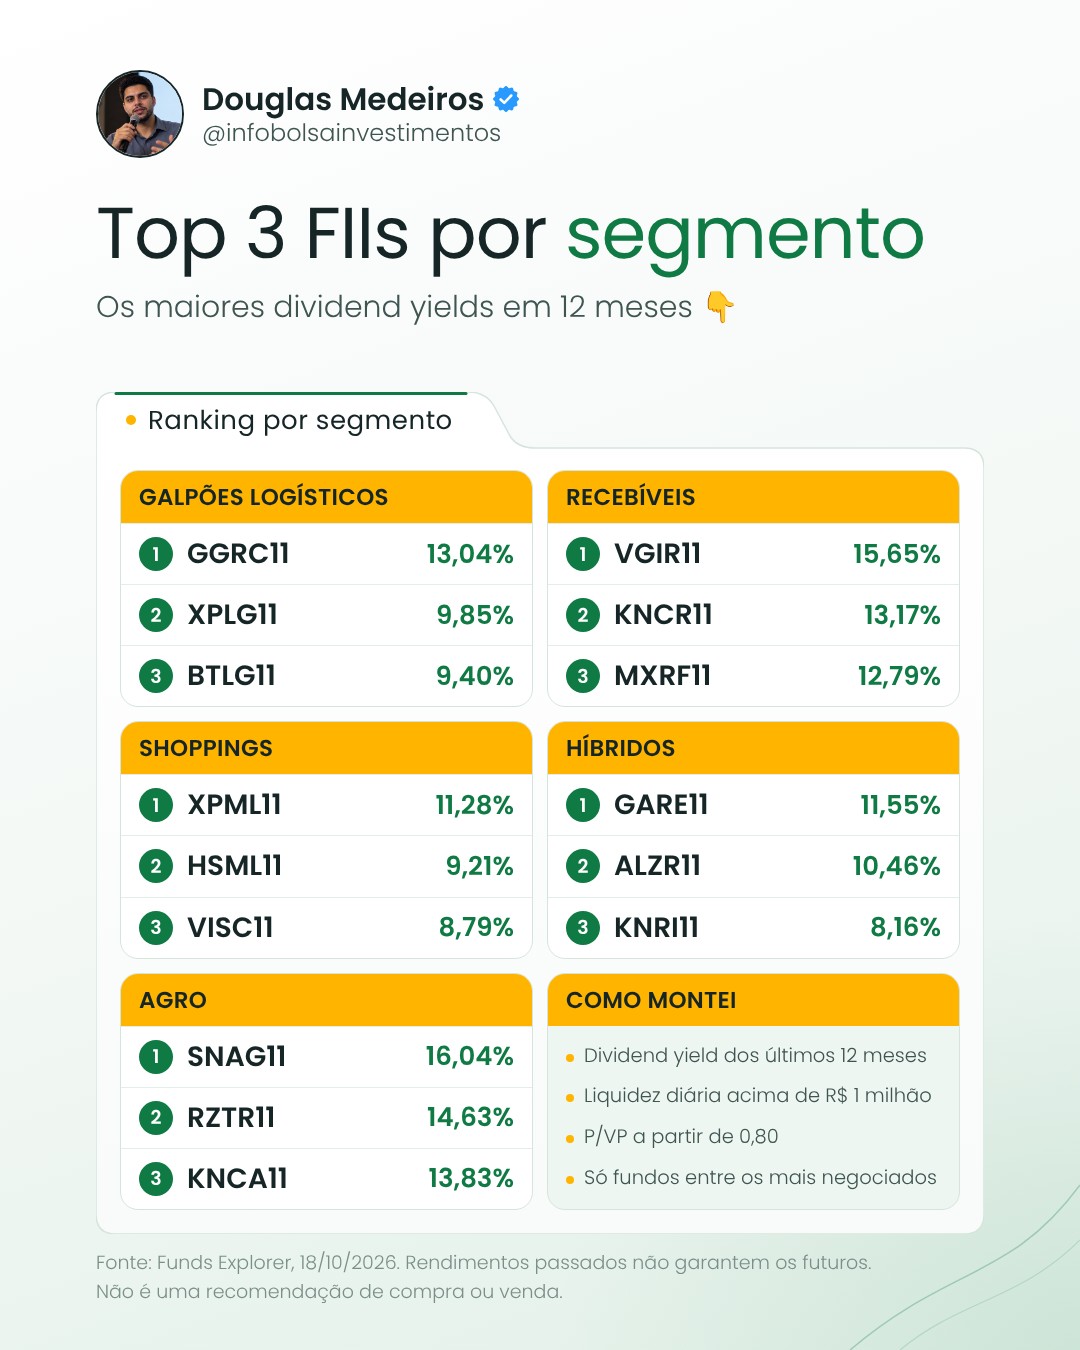
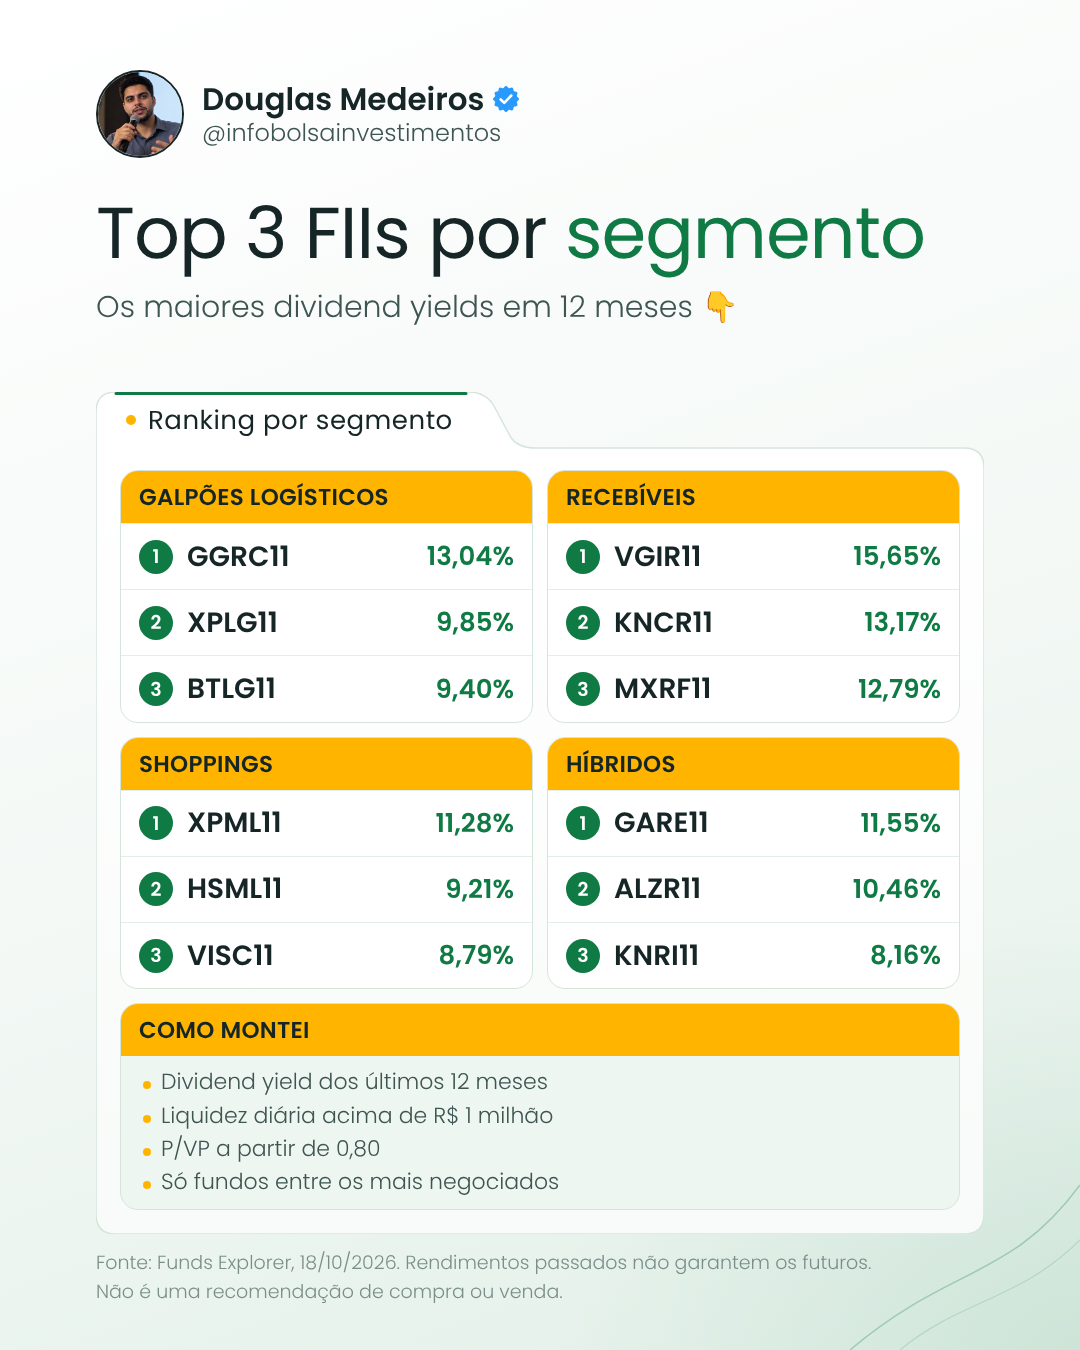
Post 18/10 15h: remove Agro (RZTR11 cortou dividendo)
Claude-Session: https://claude.ai/code/session_01V4Ut9U2W4uPbxLAyJQKmJH

Changed region(s): [[0.0917, 0.4044, 0.8861, 0.9022], [0.7639, 0.8711, 0.7944, 0.9022]]

diff --git a/kit/gen_inst.py b/kit/gen_inst.py
@@ -263,14 +263,14 @@ def build_top3(c, tema):
         cards += f'<div class="t3c"><div class="t3h">{seg}</div>{ln}</div>'
     crit = "".join(f"<li>{x}</li>" for x in c["criterio"])
     cards += f'<div class="t3c t3k"><div class="t3h">Como montei</div><ul>{crit}</ul></div>'
-    css = ("<style>.t3g{position:absolute;left:24px;right:24px;top:78px;bottom:24px;display:grid;grid-template-columns:1fr 1fr;grid-template-rows:1fr 1fr 1fr;gap:14px}"
+    css = ("<style>.t3g{position:absolute;left:24px;right:24px;top:78px;bottom:24px;display:grid;grid-template-columns:1fr 1fr;grid-template-rows:1.1fr 1.1fr .9fr;gap:14px}"
            ".t3c{background:#fff;border:1.5px solid var(--borda);border-radius:18px;overflow:hidden;display:flex;flex-direction:column}"
            ".t3h{background:#FFB400;color:#162526;font-weight:600;font-size:23px;letter-spacing:.3px;padding:9px 18px;text-transform:uppercase}"
            ".t3r{flex:1;display:flex;align-items:center;gap:14px;padding:0 18px;border-top:1px solid var(--linha);font-size:28px}"
            ".t3r:first-of-type{border-top:0}"
            ".t3r i{font-style:normal;width:34px;height:34px;border-radius:50%;background:var(--acc);color:#fff;font-weight:600;font-size:19px;display:flex;align-items:center;justify-content:center;flex:none}"
            ".t3r b{font-weight:600;color:var(--fg);flex:1}.t3r span{color:var(--acc);font-weight:600;font-size:26px}"
-           ".t3k{background:#eef6f1}.t3k ul{list-style:none;padding:10px 18px;font-size:19.5px;line-height:1.38;color:var(--sub);display:flex;flex-direction:column;justify-content:space-around;flex:1}"
+           ".t3k{background:#eef6f1;grid-column:1/-1}.t3k ul{list-style:none;padding:10px 22px;font-size:22px;line-height:1.4;color:var(--sub);display:flex;flex-direction:column;justify-content:space-around;flex:1}"
            ".t3k li:before{content:'';display:inline-block;width:8px;height:8px;border-radius:50%;background:#FFB400;margin-right:10px}</style>")
     corpo = css + pasta(top, h, c.get("aba", "Ranking por segmento"), f'<div class="t3g">{cards}</div>', tema)
     return pagina(tema, c["titulo"], c.get("sub", ""), corpo, c["rodape"], tsize=c.get("tsize", 72))
